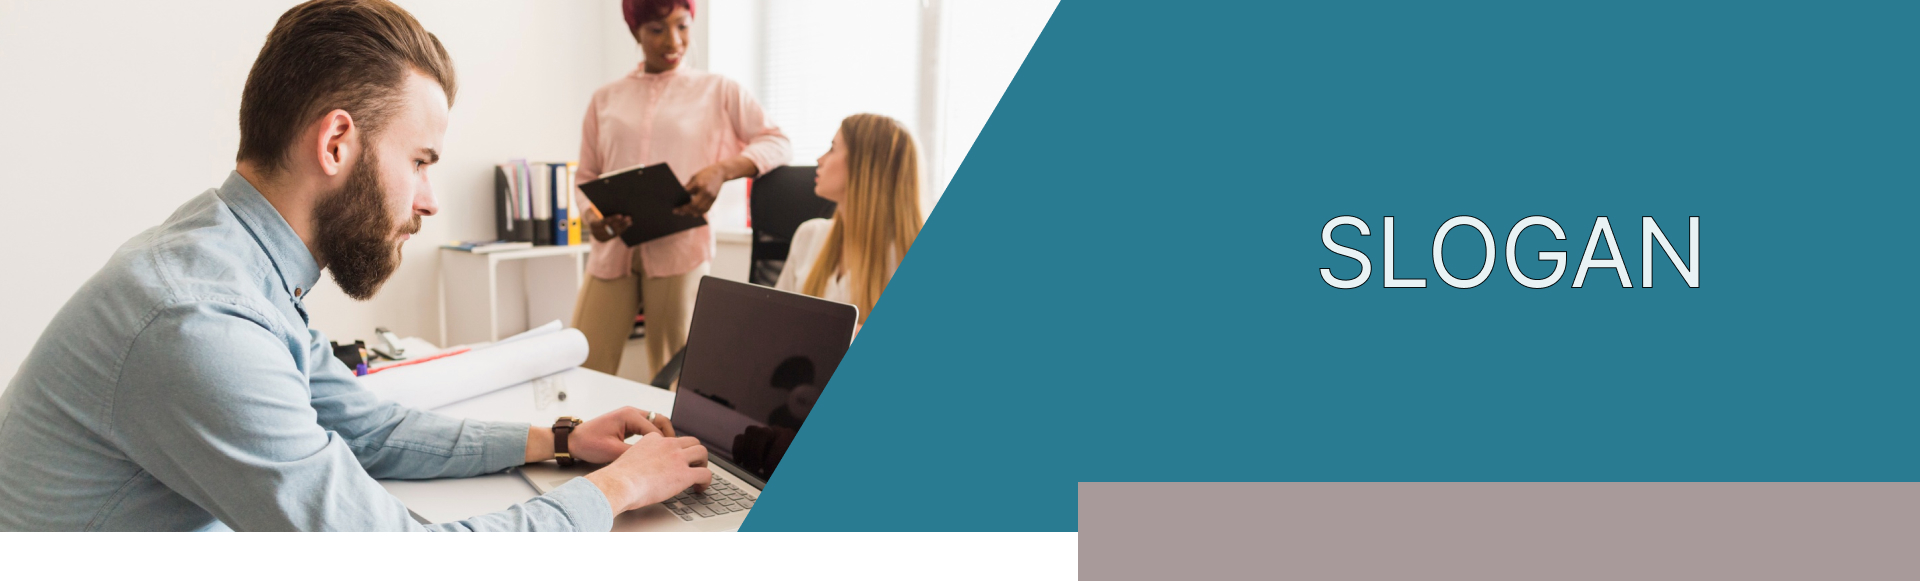
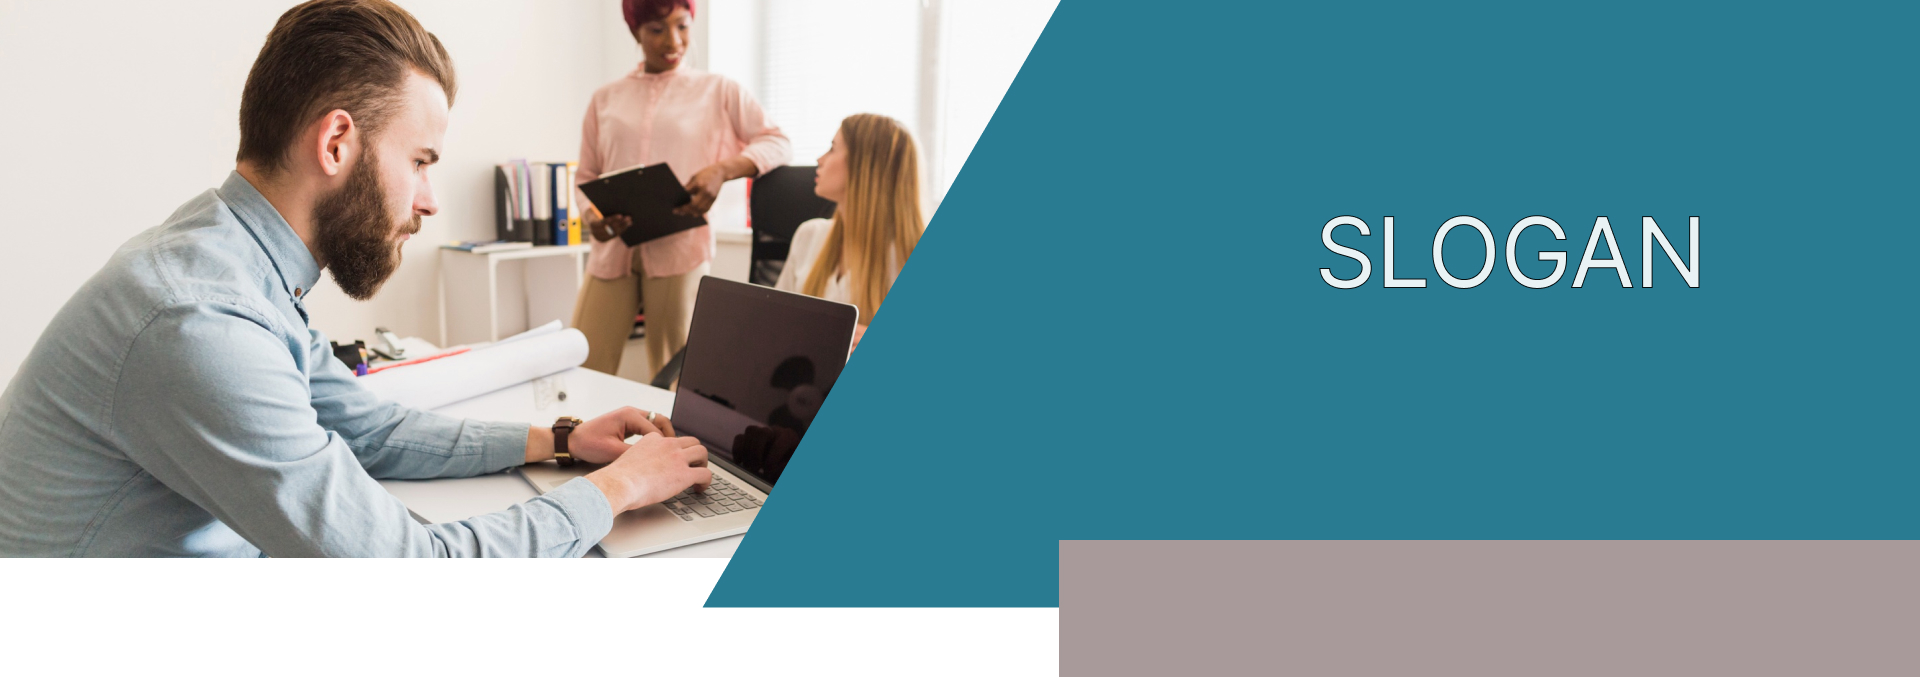
noche de mierda

Changed region(s): [[0.0, 0.0, 1.0, 1.0], [0.6875, 0.3098, 0.9062, 0.4957]]

diff --git a/Erven/src/components/Landing/Carrusel.jsx b/Erven/src/components/Landing/Carrusel.jsx
@@ -1,90 +1,50 @@
-import Slider from "react-slick";
-import React from 'react';
+import React, {useState} from 'react';
 import './Carrusel.css';
-import { FaArrowLeft, FaArrowRight } from "react-icons/fa"; // Usaremos íconos de React Icons (opcional)
-import "slick-carousel/slick/slick.css";
-import "slick-carousel/slick/slick-theme.css";
+import './Carrusel.css'; 
 
-const PrevArrow = (props) => {
-  const { className, style, onClick } = props;
-  return (
-    <FaArrowLeft
-      className={className}
-      style={{ ...style, display: "block",
-        color: "#646cff",  // Change the color to a dark gray
-        fontSize: "80px",  // Increase the font size to make it taller
-        opacity: 1,
-        minHeight: "50px",
-        paddingLeft: "0px",
-        backgroundColor: "grey",  // Remove the background color
-        borderRadius: 0,  // Remove the border radius
-        boxShadow: "none" }}
-      onClick={onClick}
-    />
-  );
-};
+const Carrusel = () => {
+  const [currentIndex, setCurrentIndex] = useState(0);
+  const items = [
+    { id: 1, content: "Carta 1" },
+    { id: 2, content: "Carta 2" },
+    { id: 3, content: "Carta 3" },
+    { id: 4, content: "Carta 4" },
+  ];
+  const totalItems = items.length;
 
-const NextArrow = (props) => {
-  const { className, style, onClick } = props;
-  return (
-    <FaArrowRight
-      className={className}
-      style={{ ...style, display: "block", color: "#297B92", fontSize: "24px" }}
-      onClick={onClick}
-    />
-  );
-};
-
-
-function Carrusel() {
-  const settings = {
-    className: "center",
-    centerMode: true,
-    infinite: true,
-    centerPadding: "30px",
-    slidesToShow: 3,
-    speed: 500,
-    arrows: true,
-    nextArrow: <NextArrow />,
-    prevArrow: <PrevArrow />,
+  const nextSlide = () => {
+    setCurrentIndex((prevIndex) => (prevIndex + 1) % totalItems);
   };
+
+  const prevSlide = () => {
+    setCurrentIndex((prevIndex) =>
+      prevIndex === 0 ? totalItems - 1 : prevIndex - 1
+    );
+  };
+
+  // Calcular los índices de las cartas que se mostrarán
+  const leftIndex = (currentIndex - 1 + totalItems) % totalItems;
+  const rightIndex = (currentIndex + 1) % totalItems;
+
   return (
-    <div className="slider-container">
-      <Slider {...settings}>
-        <div className="card">
-         
-              <h3>Título del svc</h3>
-              <p>Descripción del svc</p>
-              <button>Cotizá/Consultá</button>
+    <div className="carousel">
+      <button className="arrow left" onClick={prevSlide}>❮</button>
+      <div className="carousel-container">
+        <div className={`card left`} key={items[leftIndex].id}>
+          {items[leftIndex].content}
         </div>
-        <div className="card">
-            <h3>Título del svc</h3>
-             <p>Descripción del svc</p>
-             <button>Cotizá/Consultá</button>
+        <div className={`card active`} key={items[currentIndex].id}>
+          {items[currentIndex].content}
         </div>
-        <div className="card">
-        <h3>Título del svc</h3>
-             <p>Descripción del svc</p>
-             <button>Cotizá/Consultá</button>
+        <div className={`card right`} key={items[rightIndex].id}>
+          {items[rightIndex].content}
         </div>
-        <div className="card">
-        <h3>Título del svc</h3>
-             <p>Descripción del svc</p>
-             <button>Cotizá/Consultá</button>
-        </div>
-        <div className="card">
-        <h3>Título del svc</h3>
-             <p>Descripción del svc</p>
-             <button>Cotizá/Consultá</button>
-        </div>
-        <div className="card">
-        <h3>Título del svc</h3>
-             <p>Descripción del svc</p>
-             <button>Cotizá/Consultá</button>
-        </div>
-      </Slider>
+      </div>
+      <button className="arrow right" onClick={nextSlide}>❯</button>
     </div>
   );
-}
+};
+
 
 export default Carrusel;
+

diff --git a/Erven/src/components/Footer/Footer.jsx b/Erven/src/components/Footer/Footer.jsx
@@ -7,46 +7,43 @@ import facebook from './facebook.svg'
 const Footer = () => {
   return (
     <footer className='footer'>
-      <div className='column'>
-        <ul className='lista'>
-          <li className='item'>
-            <Link to="/Erven/esp/contenedor">Servicios</Link>
-          </li>
-          <li className='item'>
-            <Link to="productos">Productos</Link>
-          </li>
-          <li className='item'>
-            <Link to="proyectos">Proyectos</Link>
-          </li>
-          <li className='item'>
-            <Link to="nosotros">Nosotros</Link>
-          </li>
-          <li className='item'>
-            <Link to="contacto">Contacto</Link>
-          </li>
-        </ul>
-      </div>
-      <div className='column'>
-        <ul className='lista2'>
-          <li>
-          Erben GMS S.R.L
-          </li>
-          <li>
-          Erben GMS S.R.L
-          </li>
-          <li>
-          Email: m.ogawa@erbengms.com /
-          m.dome@erbengms.com
-          </li>
-          <li>
-            Tel: +54 9 11 6458-4382
-          </li>
-        </ul>
-      </div>
-      <div className='column'>
-        <img src={instagram} alt="instagram" className='svgs' />
-        <img src={facebook} alt="face" className='svgs'  />
-      </div>
+      <table className="mi-tabla">
+        <tr>
+          <td className="column">
+            <ul className="lista">
+              <li className="item">
+                <Link to="/Erven/esp/contenedor">Servicios</Link>
+              </li>
+              <li className="item">
+                <Link to="productos">Productos</Link>
+              </li>
+              <li className="item">
+                <Link to="proyectos">Proyectos</Link>
+              </li>
+              <li className="item">
+                <Link to="nosotros">Nosotros</Link>
+              </li>
+              <li className="item">
+                <Link to="contacto">Contacto</Link>
+              </li>
+            </ul>
+          </td>
+          <td className="column">
+            <ul className="lista2">
+              <li>Erben GMS S.R.L</li>
+              <li>Erben GMS S.R.L</li>
+              <li>Email: m.ogawa@erbengms.com / m.dome@erbengms.com</li>
+              <li>Tel: +54 9 11 6458-4382</li>
+            </ul>
+          </td>
+          <td className="column">
+            <div className='icon-container'>
+            <img src={instagram} alt="instagram" className="svgs" />
+            <img src={facebook} alt="face" className="svgs" />
+            </div>
+          </td>
+        </tr>
+    </table>
     </footer>
   );
 }

diff --git a/Erven/src/components/Landing/Carrusel.css b/Erven/src/components/Landing/Carrusel.css
@@ -1,16 +1,4 @@
-.card {
-    background-color: #297B92;
-    padding: 20%;
-    text-align: center;
-    border-radius: 30px;
-    color: white;
-    box-shadow: 0 10px 20px rgba(171, 12, 12, 0.1);
-    transition: transform 0.3s ease, z-index 0.3s ease; /* Añade una transición para el efecto */
-    z-index: 1;
-    align-items: center;
-    height: 200px;
-  }
-  
+
   .icono-svc {
     width: 50px;
     height: 50px;
@@ -38,36 +26,56 @@
     font-size: 14px;
     line-height: 1.5;
   }
-
-  .slick-prev:before, .slick-next:before {
-  display: none; /* Ocultar las flechas por defecto de Slick */
-}
-
-
-.slider-container{
-    width: 95vw;
-    height: 15vh;
-    margin: 40px; 
-    margin-top: auto;
-  }
-
-.slick-center .card {
-    margin:  15px 15px 15px 15px !important;
-    transform: scale(1.2); 
-    z-index: 2;
-    
-   
-}
-
-.slick-track {
-    display: flex !important;
+  .carousel {
+    display: flex;
     align-items: center;
-    height: 400px;
-    box-sizing: border-box;
-}
-
-.slick-slide {
-    display: flex !important;
-    justify-content: center !important; /* Alinea las tarjetas en el centro */
-    align-items: center !important;
+    position: relative;
+    height: 25vh;
+    justify-content: center;
+    z-index: 1;
+  }
+  
+  .carousel-container {
+    display: flex;
+    justify-content: center;
+    width: 100%;
+  }
+  
+  .card {
+    min-width: 200px; /* Ajusta el ancho según sea necesario */
+    height: 300px; /* Ajusta la altura según sea necesario */
+    background: lightblue;
+    border-radius: 10px;
+    display: flex;
+    align-items: center;
+    justify-content: center;
+    transition: transform 0.5s ease;
+  }
+  
+  .active {
+    transform: scale(1.2); /* Carta central más grande */
+  }
+  
+  .left,
+  .right {
+    transform: scale(0.9); /* Cartas laterales más pequeñas */
+  }
+  
+  .arrow {
+    background: transparent;
+    border: none;
+    cursor: pointer;
+    font-size: 30px;
+    padding: 10px;
+    position: absolute;
+    top: 50%;
+    transform: translateY(-50%);
+  }
+  
+  .left {
+    left: 24vw;
+  }
+  
+  .right {
+    right: 24vw;
   }

diff --git a/Erven/src/components/Footer/Footer.css b/Erven/src/components/Footer/Footer.css
@@ -7,13 +7,21 @@
     text-align: left;
     align-items: center;
     width: 100%;  
-    justify-content: end;
+    justify-content: space-between;
+    z-index: 1000;
 }
 
+.mi-tabla {
+    width: 100%; /* Ajusta el ancho según sea necesario */
+    border-collapse: separate; /* Elimina el espacio entre celdas */
+}
+  
 .column {
-    flex: 1; 
-    margin: 0 1rem;
-  }
+    padding: 10px; /* Espaciado interno para las celdas */
+    vertical-align: top; /* Alinea el contenido en la parte superior */
+    flex: 1;
+    min-width: 200px;
+}
   
 .lista {
     margin: 0;
@@ -32,7 +40,15 @@
 .lista2{
     list-style: none;
 }
+
+.icon-container {
+    display: flex;
+    flex-direction: column; /* Asegura que los iconos estén en una columna */
+    align-items: center; /* Centra los iconos horizontalmente */
+}
+
 .svgs{
     padding-right: 20vw;
+    padding-top: 10px;
     max-width: 40px;
 }

diff --git a/Erven/src/components/Landing/Landing.css b/Erven/src/components/Landing/Landing.css
@@ -1,7 +1,6 @@
 .banner-container{
-
   width: 100vw;
-  height: 30%;
+  height: 25vh;
   align-items: center; /* Centra los elementos verticalmente */
   justify-content: center; /* Centra los elementos horizontalmente (opcional) */
   top: 0; /* Stick to the top of the viewport */
@@ -10,11 +9,12 @@
   margin-top: 5rem;
   position: relative;
   overflow: hidden;
+  top: 20px;
 }
 
  .imagen-banner{
   height: 100%;
   width: 100%;
-  object-fit: cover;
+  object-fit: fill;
   object-position: center;
  }

diff --git a/Erven/src/routes/router.jsx b/Erven/src/routes/router.jsx
@@ -7,8 +7,6 @@ import Productos from "../components/Productos"
 import Proyectos from '../components/Proyectos'
 import Nosotros from "../components/Nosotros"
 import Contacto from "../components/Contacto"
-import Header from '../components/header/Header'
-import Footer from '../components/Footer/Footer'
 import Landing from '../components/Landing/Landing'
 
 const idioma  = "esp";
